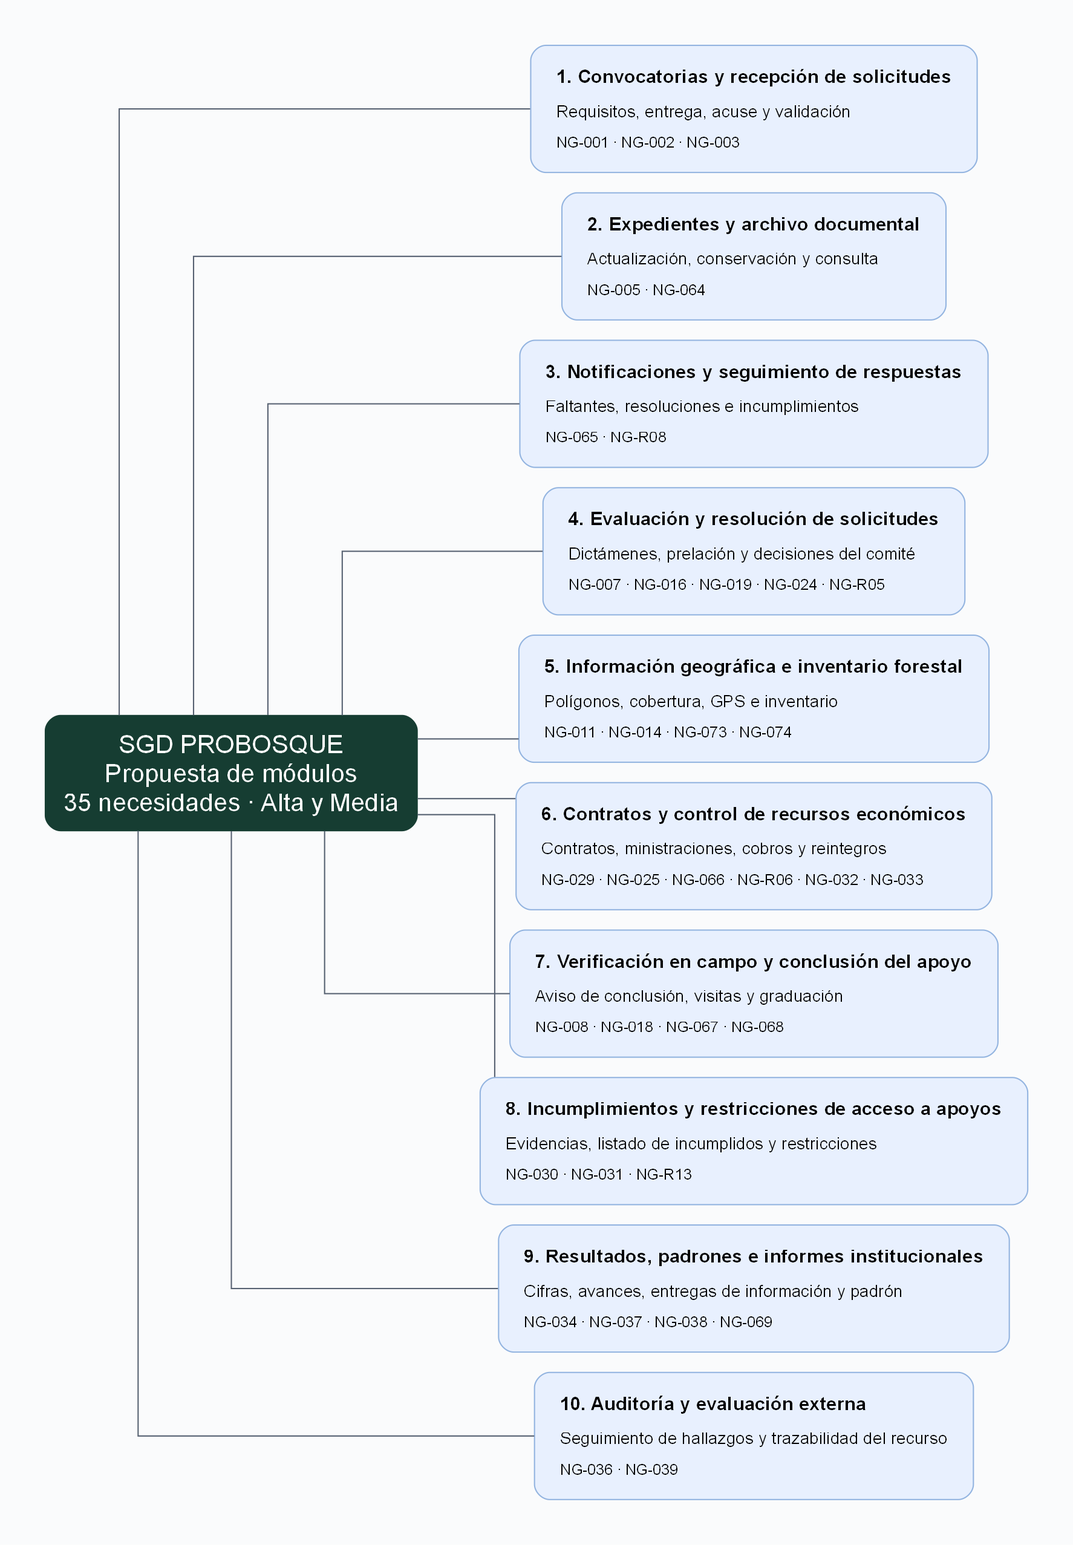
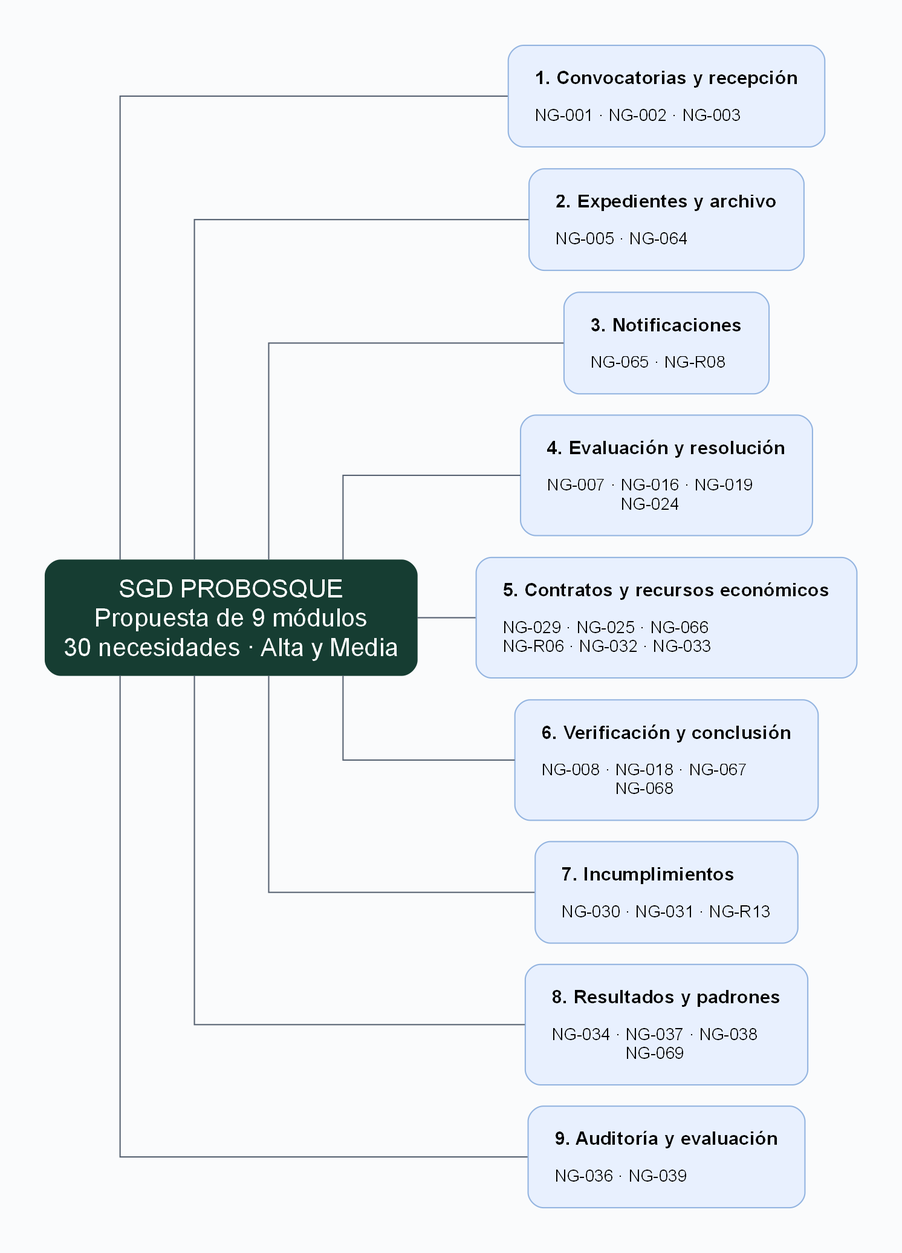
Actualizar propuesta a nueve módulos y relacionar servicios con necesidades

Changed region(s): [[0.0308, 0.0309, 0.9249, 0.9575], [0.8941, 0.3398, 0.9249, 0.3707], [0.2158, 0.1544, 0.2466, 0.1853]]

diff --git a/Docs/Alan/Solucion.md b/Docs/Alan/Solucion.md
@@ -1,12 +1,12 @@
 # Propuesta de solución por módulos — SGD PROBOSQUE
 
-Clasificación funcional propuesta de las **35 necesidades de prioridad Alta o Media de las etapas 1 a 9**. Cada necesidad tiene un módulo principal y puede compartir información con otros módulos. El cruce relaciona necesidad, programa y fuente citada en la columna Origen de [TABLA_NECESIDADES.md](../TABLA_NECESIDADES.md#3-tabla-maestra).
+Clasificación funcional propuesta de las **30 necesidades de prioridad Alta o Media de las etapas 1 a 9**. Cada necesidad tiene un módulo principal y puede compartir información con otros módulos. El cruce relaciona necesidad, programa y fuente citada en la columna Origen de [TABLA_NECESIDADES.md](../TABLA_NECESIDADES.md#3-tabla-maestra).
 
 Fecha de elaboración: 22 de noviembre de 2026.
 
-## 1. Cuadro sinóptico de los 10 módulos
+## 1. Cuadro sinóptico de los 9 módulos
 
-![Cuadro sinóptico de los 10 módulos y sus 35 necesidades](Diagramas/modulos-probosque.png)
+![Cuadro sinóptico de los 9 módulos y sus 30 necesidades](Diagramas/modulos-probosque.png)
 
 El expediente se comparte entre módulos. Contratos, minutas, comprobantes y resultados se vinculan con el expediente del predio correspondiente.
 
@@ -21,24 +21,23 @@ El expediente se comparte entre módulos. Contratos, minutas, comprobantes y res
 | MFS | Manejo Forestal Sustentable |
 | PEG | Programa Estatal de Guardabosques |
 
-La tabla de necesidades actual trata RFI (Restauración Forestal Integral) como modalidad de RHF. El inventario forestal, las funciones de UIPPE y la evaluación del programa presupuestario tienen un ámbito institucional propio.
+La tabla de necesidades actual trata RFI (Restauración Forestal Integral) como modalidad de RHF. Las funciones de UIPPE y la evaluación del programa presupuestario tienen un ámbito institucional propio.
 
 ## 3. Propuesta de solución y construcción general
 
-Se propone una aplicación web con diez módulos. Los componentes tecnológicos se expresan de forma general para definir su función antes de seleccionar herramientas específicas.
+Se propone una aplicación web con nueve módulos. Los componentes tecnológicos se expresan de forma general para definir su función antes de seleccionar herramientas específicas.
 
 | Módulo | Propuesta de solución | Cómo se hará, en términos generales |
 |---|---|---|
 | **1. Convocatorias y recepción de solicitudes** | Publicar requisitos, registrar solicitudes, emitir acuses y controlar faltantes. | **Formularios web** para capturar solicitudes y comprobar requisitos; **base de datos relacional** para relacionar programas, convocatorias, solicitudes y documentos; **generación de documentos** para emitir acuses. |
 | **2. Expedientes y archivo documental** | Integrar, actualizar, conservar y consultar expedientes. | **Base de datos relacional** para vincular predios, personas, solicitudes y documentos; **almacenamiento de archivos** para documentos digitalizados y sus versiones; **consultas y filtros** para localizar expedientes. |
 | **3. Notificaciones y seguimiento de respuestas** | Registrar avisos, entregas, respuestas y plazos. | **Flujo de seguimiento** con estados y fechas; **base de datos relacional** para conservar notificaciones y respuestas; **servicio de avisos** para informar pendientes y vencimientos; almacenamiento de constancias de entrega. |
-| **4. Evaluación y resolución de solicitudes** | Elaborar dictámenes, organizar listas de espera y conservar acuerdos. | **Formularios de evaluación** y **reglas configurables por programa**; **base de datos relacional** para criterios, dictámenes y decisiones; **generación de documentos** para dictámenes y paquetes de sesión. |
-| **5. Información geográfica e inventario forestal** | Consultar polígonos, comprobar sobreposiciones y registrar levantamientos. | **Base de datos con capacidades espaciales**, **mapa interactivo** e **importación y exportación de archivos geográficos**; almacenamiento de fotografías y reportes relacionados con predios y conglomerados. |
-| **6. Contratos y control de recursos económicos** | Preparar contratos y dar seguimiento a pagos, cobros, reintegros y reasignaciones. | **Generación de documentos desde formatos autorizados**; **base de datos relacional con transacciones** para mantener consistentes los movimientos económicos; **reglas de cálculo y comprobación** por programa; conciliación de montos y comprobantes. |
-| **7. Verificación en campo y conclusión del apoyo** | Documentar visitas, evidencias y conclusión del apoyo. | **Formularios web adaptables a dispositivos móviles**, consulta del expediente y del mapa, **carga de archivos** y **flujo de revisión** de resultados y documentos firmados. |
-| **8. Incumplimientos y restricciones de acceso a apoyos** | Registrar incumplimientos y administrar el listado de personas y predios restringidos. | **Base de datos relacional** para causales, evidencias, acuerdos y restricciones; **comprobaciones durante la recepción y los pagos**; historial de altas y exclusiones. |
-| **9. Resultados, padrones e informes institucionales** | Consolidar resultados, mantener padrones y controlar entregas de información. | **Consultas y agregación de datos** por ejercicio, programa y región; conservación de cortes fechados; **generación y exportación de informes** y seguimiento de su aprobación y entrega. |
-| **10. Auditoría y evaluación externa** | Consultar la trazabilidad del apoyo y atender hallazgos. | **Historial de operaciones** relacionado con el expediente; **consultas de trazabilidad**; preparación de paquetes documentales y seguimiento de responsables, plazos y evidencias de atención. |
+| **4. Evaluación y resolución de solicitudes** | Elaborar dictámenes, organizar listas de espera e integrar la documentación para los órganos decisores. | **Formularios de evaluación** y **reglas configurables por programa**; **base de datos relacional** para criterios, dictámenes y resultados de evaluación; **generación de documentos** para dictámenes y paquetes de sesión. |
+| **5. Contratos y control de recursos económicos** | Preparar contratos y dar seguimiento a pagos, cobros, reintegros y reasignaciones. | **Generación de documentos desde formatos autorizados**; **base de datos relacional con transacciones** para mantener consistentes los movimientos económicos; **reglas de cálculo y comprobación** por programa; conciliación de montos y comprobantes. |
+| **6. Verificación en campo y conclusión del apoyo** | Documentar visitas, evidencias y conclusión del apoyo. | **Formularios web adaptables a dispositivos móviles**, consulta del expediente, **carga de archivos** y **flujo de revisión** de resultados y documentos firmados. |
+| **7. Incumplimientos y restricciones de acceso a apoyos** | Registrar incumplimientos y administrar el listado de personas y predios restringidos. | **Base de datos relacional** para causales, evidencias, acuerdos y restricciones; **comprobaciones durante la recepción y los pagos**; historial de altas y exclusiones. |
+| **8. Resultados, padrones e informes institucionales** | Consolidar resultados, mantener padrones y controlar entregas de información. | **Consultas y agregación de datos** por ejercicio, programa y región; conservación de cortes fechados; **generación y exportación de informes** y seguimiento de su aprobación y entrega. |
+| **9. Auditoría y evaluación externa** | Consultar la trazabilidad del apoyo y atender hallazgos. | **Historial de operaciones** relacionado con el expediente; **consultas de trazabilidad**; preparación de paquetes documentales y seguimiento de responsables, plazos y evidencias de atención. |
 
 Toda la aplicación compartiría una **base de datos relacional**, **almacenamiento documental** y **control de acceso por usuarios y roles**.
 
@@ -59,32 +58,107 @@ Las referencias de la última columna reproducen las que actualmente aparecen en
 | | **NG-016 · Emitir dictamen técnico uniforme** | PSAH; MFS aparece como procedencia del análisis | RO-PSAH, pp. 8–9. El criterio de «desempate» atribuido a MFS está pendiente de respaldo. |
 | | **NG-019 · Aplicar prelación y ordenar lista de espera** | Lista de espera común; criterios específicos de PSAH | Convocatoria, base Sexta; RO-PSAH, p. 12, §8.1.2. |
 | | **NG-024 · Entregar documentación a los órganos decisores** | PSAH, CC y PS; también Consejo Directivo | RO-PSAH, p. 19; reglamentos de comités CC y PS; Manual de Organización. |
-| | **NG-R05 · Conservar decisiones y acuerdos** | PSAH y CC; también Consejo Directivo | Reglamento FIPASAHEM, arts. 25–26; reglamento del comité CC; Manual de Organización. |
-| **5. Información geográfica e inventario** | **NG-011 · Registrar la geometría del predio** | PSAH, RHF —incluida RFI—, CC, PS y MFS | Reglas de los cinco programas y guía del Proyecto Técnico RFI, pp. 7–8. PEG queda expresamente fuera del levantamiento de poligonal. |
-| | **NG-014 · Identificar cambios de cobertura** | PSAH, CC y PS | Criterios de elegibilidad y priorización: RO-PSAH, pp. 8–9 y 12; RO-CC, pp. 8 y 12; RO-PS, p. 12. |
-| | **NG-073 · Registrar levantamientos de campo** | Inventario Estatal Forestal y de Suelos | Legislación forestal y manual de captura INFyS, p. 22. |
-| | **NG-074 · Incorporar información al sistema nacional** | Sistema Estatal de Información Forestal | Legislación forestal y vacío de interoperabilidad de MF-09. |
-| **6. Contratos y recursos económicos** | **NG-029 · Formalizar contratos** | Los seis programas | Convocatoria y reglas de PSAH, RHF, CC, PS, MFS y PEG; requisitos contractuales y bancarios. |
+| **5. Contratos y recursos económicos** | **NG-029 · Formalizar contratos** | Los seis programas | Convocatoria y reglas de PSAH, RHF, CC, PS, MFS y PEG; requisitos contractuales y bancarios. |
 | | **NG-025 · Dispersar ministraciones** | PSAH, RHF, CC, PS y PEG | Reglas sobre pagos de esos programas y Manual de Contabilidad. MFS requiere precisar su regla particular de pago para este cruce. |
 | | **NG-066 · Controlar requisitos para ministraciones** | Los seis programas | La fila distingue requisitos de campo y gabinete para PSAH, RHF, CC, PS, MFS y PEG. |
 | | **NG-R06 · Confirmar recepción y cobro** | PSAH y PEG; referencias complementarias de CC para reintegros | RO-PSAH, p. 4 y §10.1; RO-PEG, p. 13, §10.1 XV. |
 | | **NG-032 · Tramitar reintegros** | PSAH y CC | RO-PSAH, p. 17, §8.1.9.3; RO-CC, p. 15, §8.1.9.c. |
 | | **NG-033 · Reasignar recursos no ejercidos** | Reasignación común de la convocatoria; detalle de PSAH | Convocatoria, p. 11, base Sexta; RO-PSAH, pp. 17 y 20. |
-| **7. Verificación y conclusión** | **NG-008 · Registrar visitas de verificación** | PSAH, RHF/RFI, CC y PS; referencias de supervisión de MFS y PEG | Reglas de cada programa. MFS y PEG tienen diferencias respecto a los documentos de las visitas. |
+| **6. Verificación y conclusión** | **NG-008 · Registrar visitas de verificación** | PSAH, RHF/RFI, CC y PS; referencias de supervisión de MFS y PEG | Reglas de cada programa. MFS y PEG tienen diferencias respecto a los documentos de las visitas. |
 | | **NG-018 · Revisar resultados y evidencias de visitas** | PSAH | RO-PSAH, pp. 19–20, verificación y supervisión. |
 | | **NG-067 · Informar la conclusión de actividades** | PSAH y CC para informe final; RHF y PS para conclusión de actividades | RO-PSAH, p. 16; RO-CC, pp. 7–8; RO-RHF, p. 6; RO-PS, p. 7. |
 | | **NG-068 · Dar por concluido el apoyo** | PSAH, RHF, CC, PS y MFS | Apartado §8.2, «Graduación», de las cinco reglas. |
-| **8. Incumplimientos** | **NG-030 · Asentar incumplimientos y evidencia** | PSAH | RO-PSAH, pp. 7, 17 y 21. |
+| **7. Incumplimientos** | **NG-030 · Asentar incumplimientos y evidencia** | PSAH | RO-PSAH, pp. 7, 17 y 21. |
 | | **NG-031 · Impedir apoyos a personas restringidas** | PSAH y CC con citas expresas; PS, MFS y RFI aparecen en los análisis de procedencia | RO-PSAH, pp. 9–10 y 20–21; RO-CC, p. 15; listado de incumplidos. |
 | | **NG-R13 · Administrar el listado de incumplidos** | PSAH y CC | RO-PSAH, p. 17; RO-CC, p. 15, reglas de exclusión del listado. |
-| **9. Resultados y padrones** | **NG-034 · Reunir cifras de ejecución** | PSAH como evidencia específica; estadística institucional de programas | RO-PSAH, p. 20, §16.1; listado PSAH; funciones de UIPPE. |
+| **8. Resultados y padrones** | **NG-034 · Reunir cifras de ejecución** | PSAH como evidencia específica; estadística institucional de programas | RO-PSAH, p. 20, §16.1; listado PSAH; funciones de UIPPE. |
 | | **NG-037 · Presentar avances y resultados** | Programas de la Dirección de Restauración y Fomento Forestal | Manual de Organización, p. 25; ficha de indicador. |
 | | **NG-038 · Controlar entregas de información** | Institucional, a través de UIPPE | Manual de Organización, pp. 16–17; reportes financieros y de ayudas y subsidios. |
 | | **NG-069 · Integrar padrón final** | PSAH, RHF, CC, PS y MFS | Apartado §8.1.5 de las cinco reglas y lineamientos de padrones. |
-| **10. Auditoría y evaluación** | **NG-036 · Dar seguimiento a evaluaciones externas** | Programa presupuestario Desarrollo Forestal | Evaluación CONAC 2023, términos de referencia y convenios de seguimiento. |
+| **9. Auditoría y evaluación** | **NG-036 · Dar seguimiento a evaluaciones externas** | Programa presupuestario Desarrollo Forestal | Evaluación CONAC 2023, términos de referencia y convenios de seguimiento. |
 | | **NG-039 · Auditar resultados y ruta del recurso** | PSAH y CC como evidencia específica; fiscalización institucional | RO-PSAH, §17 y disposiciones de pagos y reintegros; RO-CC, p. 15; información financiera. |
 
-## 5. Fuentes de consulta
+## 5. Servicios funcionales por módulo
+
+Cada servicio agrupa acciones que satisfacen una o varias necesidades y comparte los datos del expediente con los demás servicios.
+
+| Módulo | Servicio propuesto | Qué permite hacer | Necesidades satisfechas |
+|---|---|---|---|
+| **1. Convocatorias y recepción** | **Consulta de convocatorias y requisitos** | Consultar programas, requisitos, oficinas receptoras y fechas de recepción. | NG-001 |
+| | **Recepción de solicitudes y emisión de acuses** | Registrar la entrega y generar una constancia de los documentos recibidos. | NG-002 |
+| | **Validación e integración de solicitudes** | Comprobar requisitos, registrar cotejos y faltantes, controlar la complementación y turnar el expediente integrado. | NG-003 |
+| **2. Expedientes y archivo** | **Archivo y consulta de expedientes** | Clasificar, conservar y localizar expedientes actuales e históricos, con sus documentos y relaciones. | NG-005 |
+| | **Actualización del expediente** | Incorporar cambios de representación, titularidad y documentación, conservando sus antecedentes. | NG-064 |
+| **3. Notificaciones** | **Notificación del estado del trámite** | Comunicar faltantes y resoluciones, registrar entregas y controlar respuestas y plazos. | NG-065 |
+| | **Notificación de incumplimientos** | Comunicar los hechos y motivos del incumplimiento y conservar la constancia correspondiente. | NG-R08 |
+| **4. Evaluación y resolución** | **Dictaminación jurídica** | Revisar la documentación legal y asentar si la solicitud procede, con sus fundamentos y motivos. | NG-007 |
+| | **Dictaminación técnica** | Aplicar los criterios técnicos del programa y documentar la elegibilidad del predio. | NG-016 |
+| | **Prelación y lista de espera** | Organizar las solicitudes factibles conforme a los criterios y autorizaciones aplicables. | NG-019 |
+| | **Integración de documentación para sesiones** | Reunir y entregar avisos, dictámenes, informes y anexos a los órganos decisores. | NG-024 |
+| **5. Contratos y recursos económicos** | **Formalización de contratos** | Preparar contratos, gestionar su validación y firma y conservar los datos bancarios correspondientes. | NG-029 |
+| | **Control de requisitos de ministración** | Registrar qué comprobantes se recibieron y cuáles están pendientes antes de solicitar cada pago. | NG-066 |
+| | **Tramitación de ministraciones** | Calcular montos conforme al programa, preparar solicitudes y registrar la emisión del pago. | NG-025 |
+| | **Confirmación de recepción y cobro** | Incorporar el acuse o confirmación de que la persona recibió y cobró el apoyo. | NG-R06 |
+| | **Gestión de reintegros** | Tramitar la devolución autorizada y registrar cuenta, monto, fecha y comprobante. | NG-032 |
+| | **Reasignación de recursos** | Relacionar los montos disponibles con solicitudes factibles y documentar la reasignación autorizada. | NG-033 |
+| **6. Verificación y conclusión** | **Recepción del aviso e informe de conclusión** | Recibir el aviso de término y los documentos que acreditan las actividades realizadas. | NG-067 |
+| | **Registro de verificaciones en campo** | Documentar cada visita con el formato correspondiente, resultados, firmas y evidencias. | NG-008 |
+| | **Revisión de resultados de las verificaciones** | Consultar y revisar los resultados y las evidencias de las visitas para la supervisión. | NG-018 |
+| | **Conclusión del apoyo** | Comprobar y asentar el cumplimiento total o con ajuste y registrar la graduación correspondiente. | NG-068 |
+| **7. Incumplimientos** | **Registro de incumplimientos y evidencias** | Asentar qué se detectó, cuándo, bajo qué causal y con qué documentos de respaldo. | NG-030 |
+| | **Administración del listado de incumplidos** | Registrar altas y solicitudes de exclusión con sus acuerdos y comprobantes. | NG-R13 |
+| | **Comprobación de restricciones** | Advertir sobre personas o predios restringidos al revisar solicitudes y tramitar recursos. | NG-031 |
+| **8. Resultados y padrones** | **Consolidación de cifras de ejecución** | Reunir superficies, montos y cumplimiento por ejercicio, programa y persona beneficiaria. | NG-034 |
+| | **Presentación y validación de resultados** | Preparar avances y resultados para su revisión y aprobación por la Dirección General. | NG-037 |
+| | **Control de entregas institucionales** | Registrar requerimientos, información entregada, destinatarios y fechas. | NG-038 |
+| | **Integración y actualización de padrones** | Mantener la relación final de personas que recibieron apoyos y preparar su consulta y entrega. | NG-069 |
+| **9. Auditoría y evaluación** | **Consulta de trazabilidad y evidencia para auditoría** | Recorrer la documentación desde la ministración hasta el resultado publicado y preparar la evidencia solicitada. | NG-039 |
+| | **Seguimiento de evaluaciones externas** | Registrar responsables, entregas de información, hallazgos y comprobantes de atención. | NG-036 |
+
+Esta primera distribución contiene **30 servicios funcionales para las 30 necesidades**. Los servicios se relacionan entre sí. Control de requisitos de ministración consulta contratos y verificaciones, mientras que Consulta de trazabilidad y evidencia para auditoría reúne la evidencia generada durante el trámite.
+
+La correspondencia uno a uno facilita revisar la cobertura inicial. La agrupación posterior de servicios dependerá de que compartan una misma finalidad y responsable.
+
+## 6. Relación entre propuesta de solución y servicios
+
+El cruce se realiza por módulo entre la propuesta de solución de la sección 3 y los servicios funcionales de la sección 5. La propuesta y la forma de construcción se presentan una vez por módulo y aplican a los servicios de sus filas siguientes.
+
+| Módulo | Propuesta de solución | Cómo se hará | Servicio | Necesidad satisfecha |
+|---|---|---|---|---|
+| **1. Convocatorias y recepción de solicitudes** | Publicar requisitos, registrar solicitudes, emitir acuses y controlar faltantes. | **Formularios web** para capturar solicitudes y comprobar requisitos; **base de datos relacional** para relacionar programas, convocatorias, solicitudes y documentos; **generación de documentos** para emitir acuses. | **Consulta de convocatorias y requisitos** | NG-001 |
+|  |  |  | **Recepción de solicitudes y emisión de acuses** | NG-002 |
+|  |  |  | **Validación e integración de solicitudes** | NG-003 |
+| **2. Expedientes y archivo documental** | Integrar, actualizar, conservar y consultar expedientes. | **Base de datos relacional** para vincular predios, personas, solicitudes y documentos; **almacenamiento de archivos** para documentos digitalizados y sus versiones; **consultas y filtros** para localizar expedientes. | **Archivo y consulta de expedientes** | NG-005 |
+|  |  |  | **Actualización del expediente** | NG-064 |
+| **3. Notificaciones y seguimiento de respuestas** | Registrar avisos, entregas, respuestas y plazos. | **Flujo de seguimiento** con estados y fechas; **base de datos relacional** para conservar notificaciones y respuestas; **servicio de avisos** para informar pendientes y vencimientos; almacenamiento de constancias de entrega. | **Notificación del estado del trámite** | NG-065 |
+|  |  |  | **Notificación de incumplimientos** | NG-R08 |
+| **4. Evaluación y resolución de solicitudes** | Elaborar dictámenes, organizar listas de espera e integrar la documentación para los órganos decisores. | **Formularios de evaluación** y **reglas configurables por programa**; **base de datos relacional** para criterios, dictámenes y resultados de evaluación; **generación de documentos** para dictámenes y paquetes de sesión. | **Dictaminación jurídica** | NG-007 |
+|  |  |  | **Dictaminación técnica** | NG-016 |
+|  |  |  | **Prelación y lista de espera** | NG-019 |
+|  |  |  | **Integración de documentación para sesiones** | NG-024 |
+| **5. Contratos y control de recursos económicos** | Preparar contratos y dar seguimiento a pagos, cobros, reintegros y reasignaciones. | **Generación de documentos desde formatos autorizados**; **base de datos relacional con transacciones** para mantener consistentes los movimientos económicos; **reglas de cálculo y comprobación** por programa; conciliación de montos y comprobantes. | **Formalización de contratos** | NG-029 |
+|  |  |  | **Control de requisitos de ministración** | NG-066 |
+|  |  |  | **Tramitación de ministraciones** | NG-025 |
+|  |  |  | **Confirmación de recepción y cobro** | NG-R06 |
+|  |  |  | **Gestión de reintegros** | NG-032 |
+|  |  |  | **Reasignación de recursos** | NG-033 |
+| **6. Verificación en campo y conclusión del apoyo** | Documentar visitas, evidencias y conclusión del apoyo. | **Formularios web adaptables a dispositivos móviles**, consulta del expediente, **carga de archivos** y **flujo de revisión** de resultados y documentos firmados. | **Recepción del aviso e informe de conclusión** | NG-067 |
+|  |  |  | **Registro de verificaciones en campo** | NG-008 |
+|  |  |  | **Revisión de resultados de las verificaciones** | NG-018 |
+|  |  |  | **Conclusión del apoyo** | NG-068 |
+| **7. Incumplimientos y restricciones de acceso a apoyos** | Registrar incumplimientos y administrar el listado de personas y predios restringidos. | **Base de datos relacional** para causales, evidencias, acuerdos y restricciones; **comprobaciones durante la recepción y los pagos**; historial de altas y exclusiones. | **Registro de incumplimientos y evidencias** | NG-030 |
+|  |  |  | **Administración del listado de incumplidos** | NG-R13 |
+|  |  |  | **Comprobación de restricciones** | NG-031 |
+| **8. Resultados, padrones e informes institucionales** | Consolidar resultados, mantener padrones y controlar entregas de información. | **Consultas y agregación de datos** por ejercicio, programa y región; conservación de cortes fechados; **generación y exportación de informes** y seguimiento de su aprobación y entrega. | **Consolidación de cifras de ejecución** | NG-034 |
+|  |  |  | **Presentación y validación de resultados** | NG-037 |
+|  |  |  | **Control de entregas institucionales** | NG-038 |
+|  |  |  | **Integración y actualización de padrones** | NG-069 |
+| **9. Auditoría y evaluación externa** | Consultar la trazabilidad del apoyo y atender hallazgos. | **Historial de operaciones** relacionado con el expediente; **consultas de trazabilidad**; preparación de paquetes documentales y seguimiento de responsables, plazos y evidencias de atención. | **Consulta de trazabilidad y evidencia para auditoría** | NG-039 |
+|  |  |  | **Seguimiento de evaluaciones externas** | NG-036 |
+
+El resultado comprende **9 módulos, 30 servicios y 30 necesidades**.
+
+## 7. Fuentes de consulta
 
 La trazabilidad completa, con páginas, numerales y vacíos por necesidad, se conserva en la columna Origen de la [tabla maestra](../TABLA_NECESIDADES.md#3-tabla-maestra).
 
